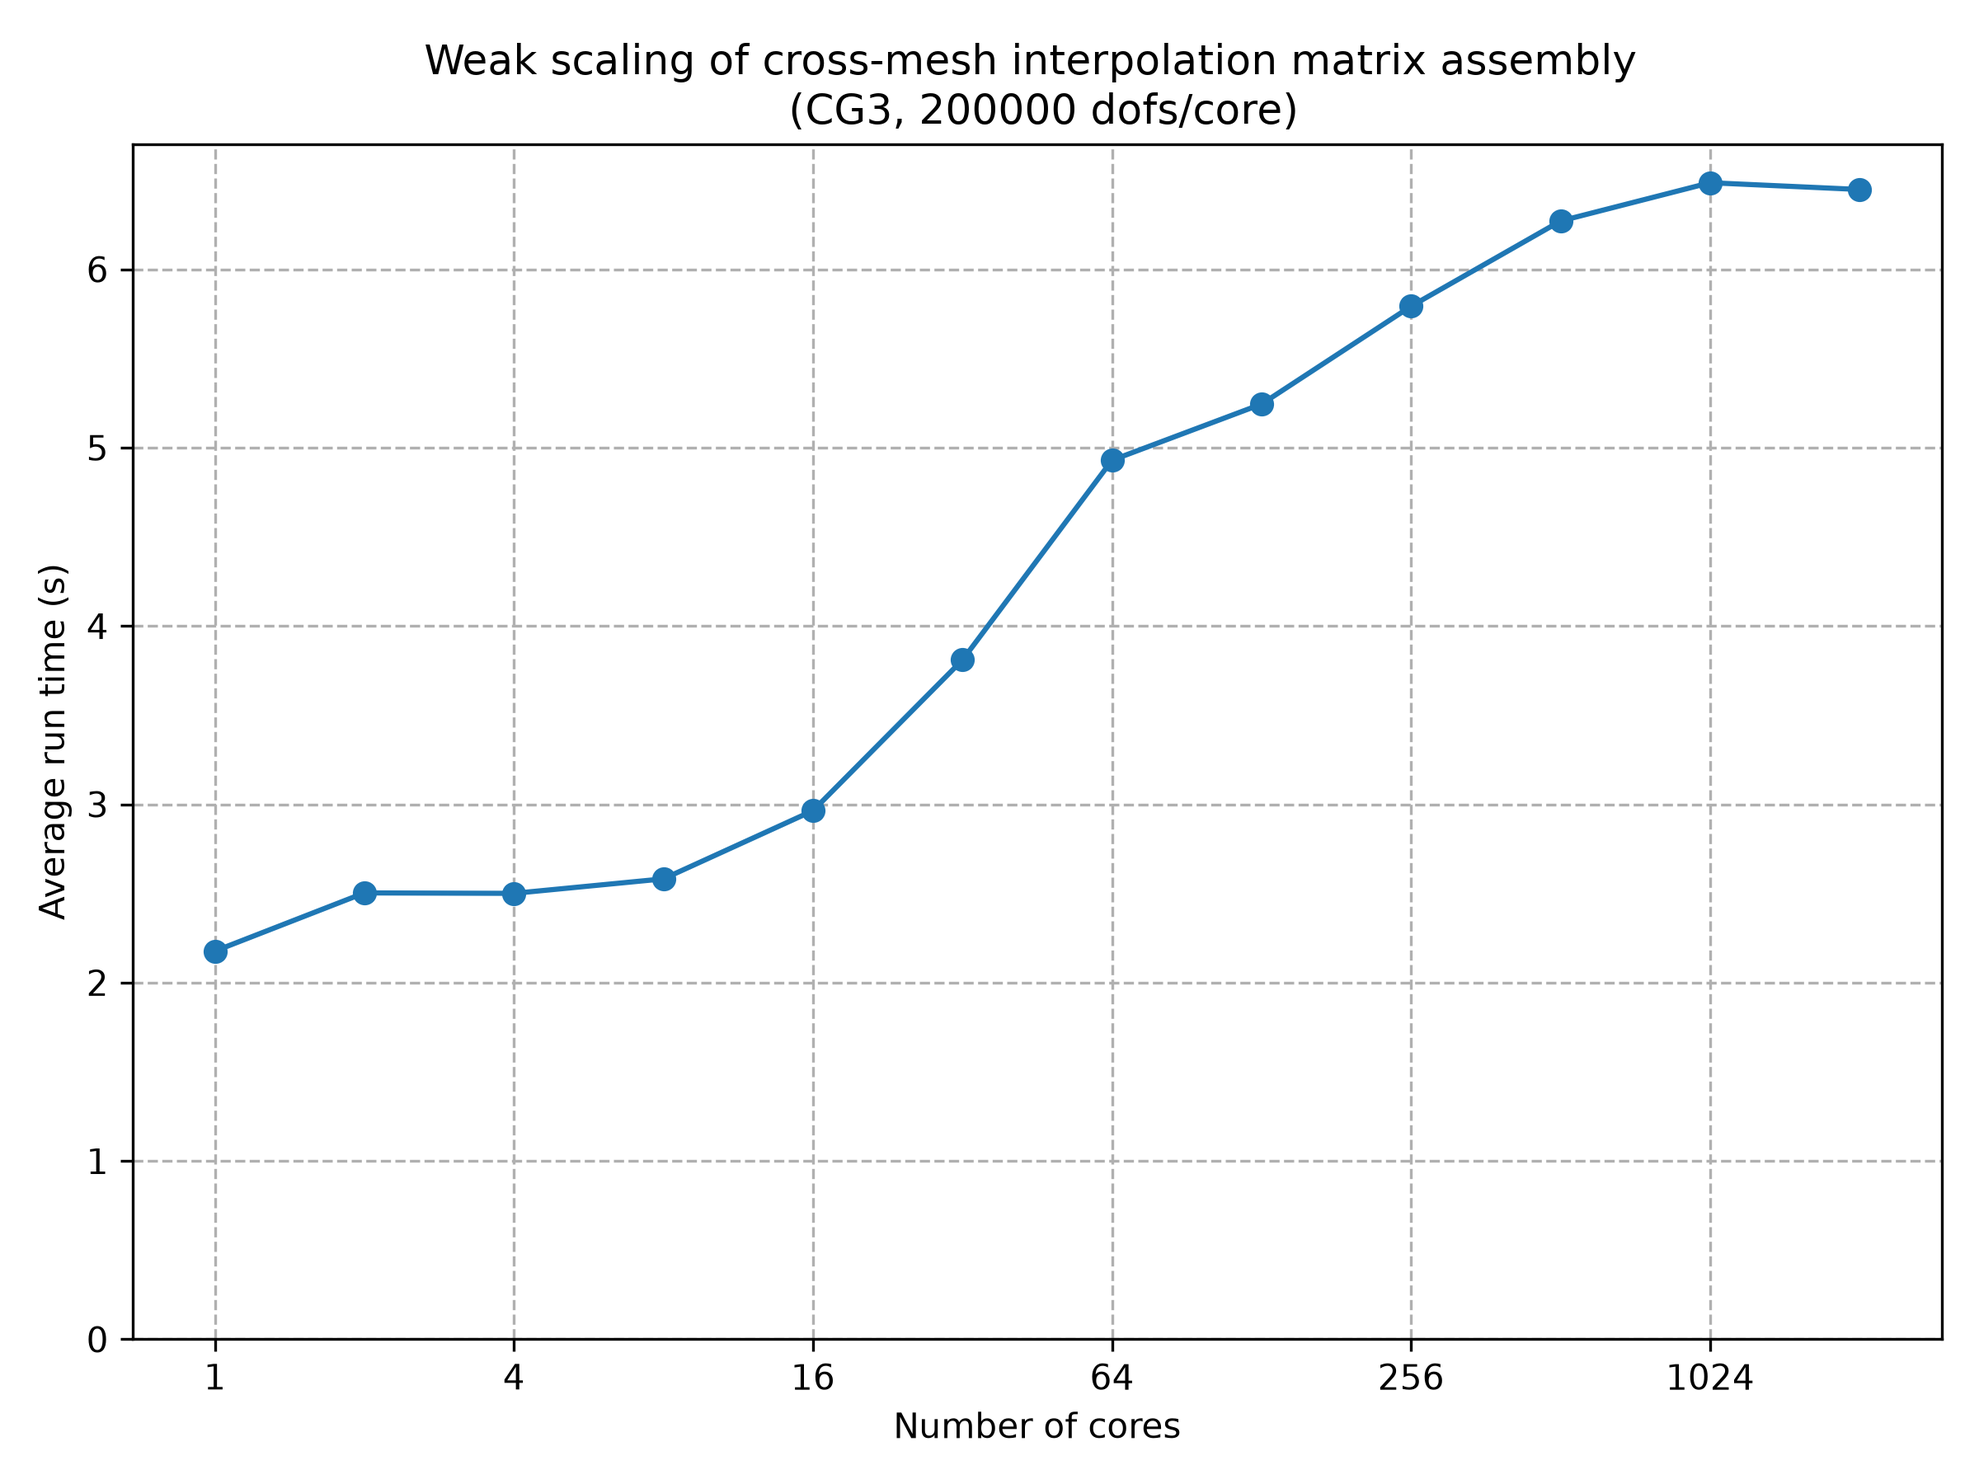
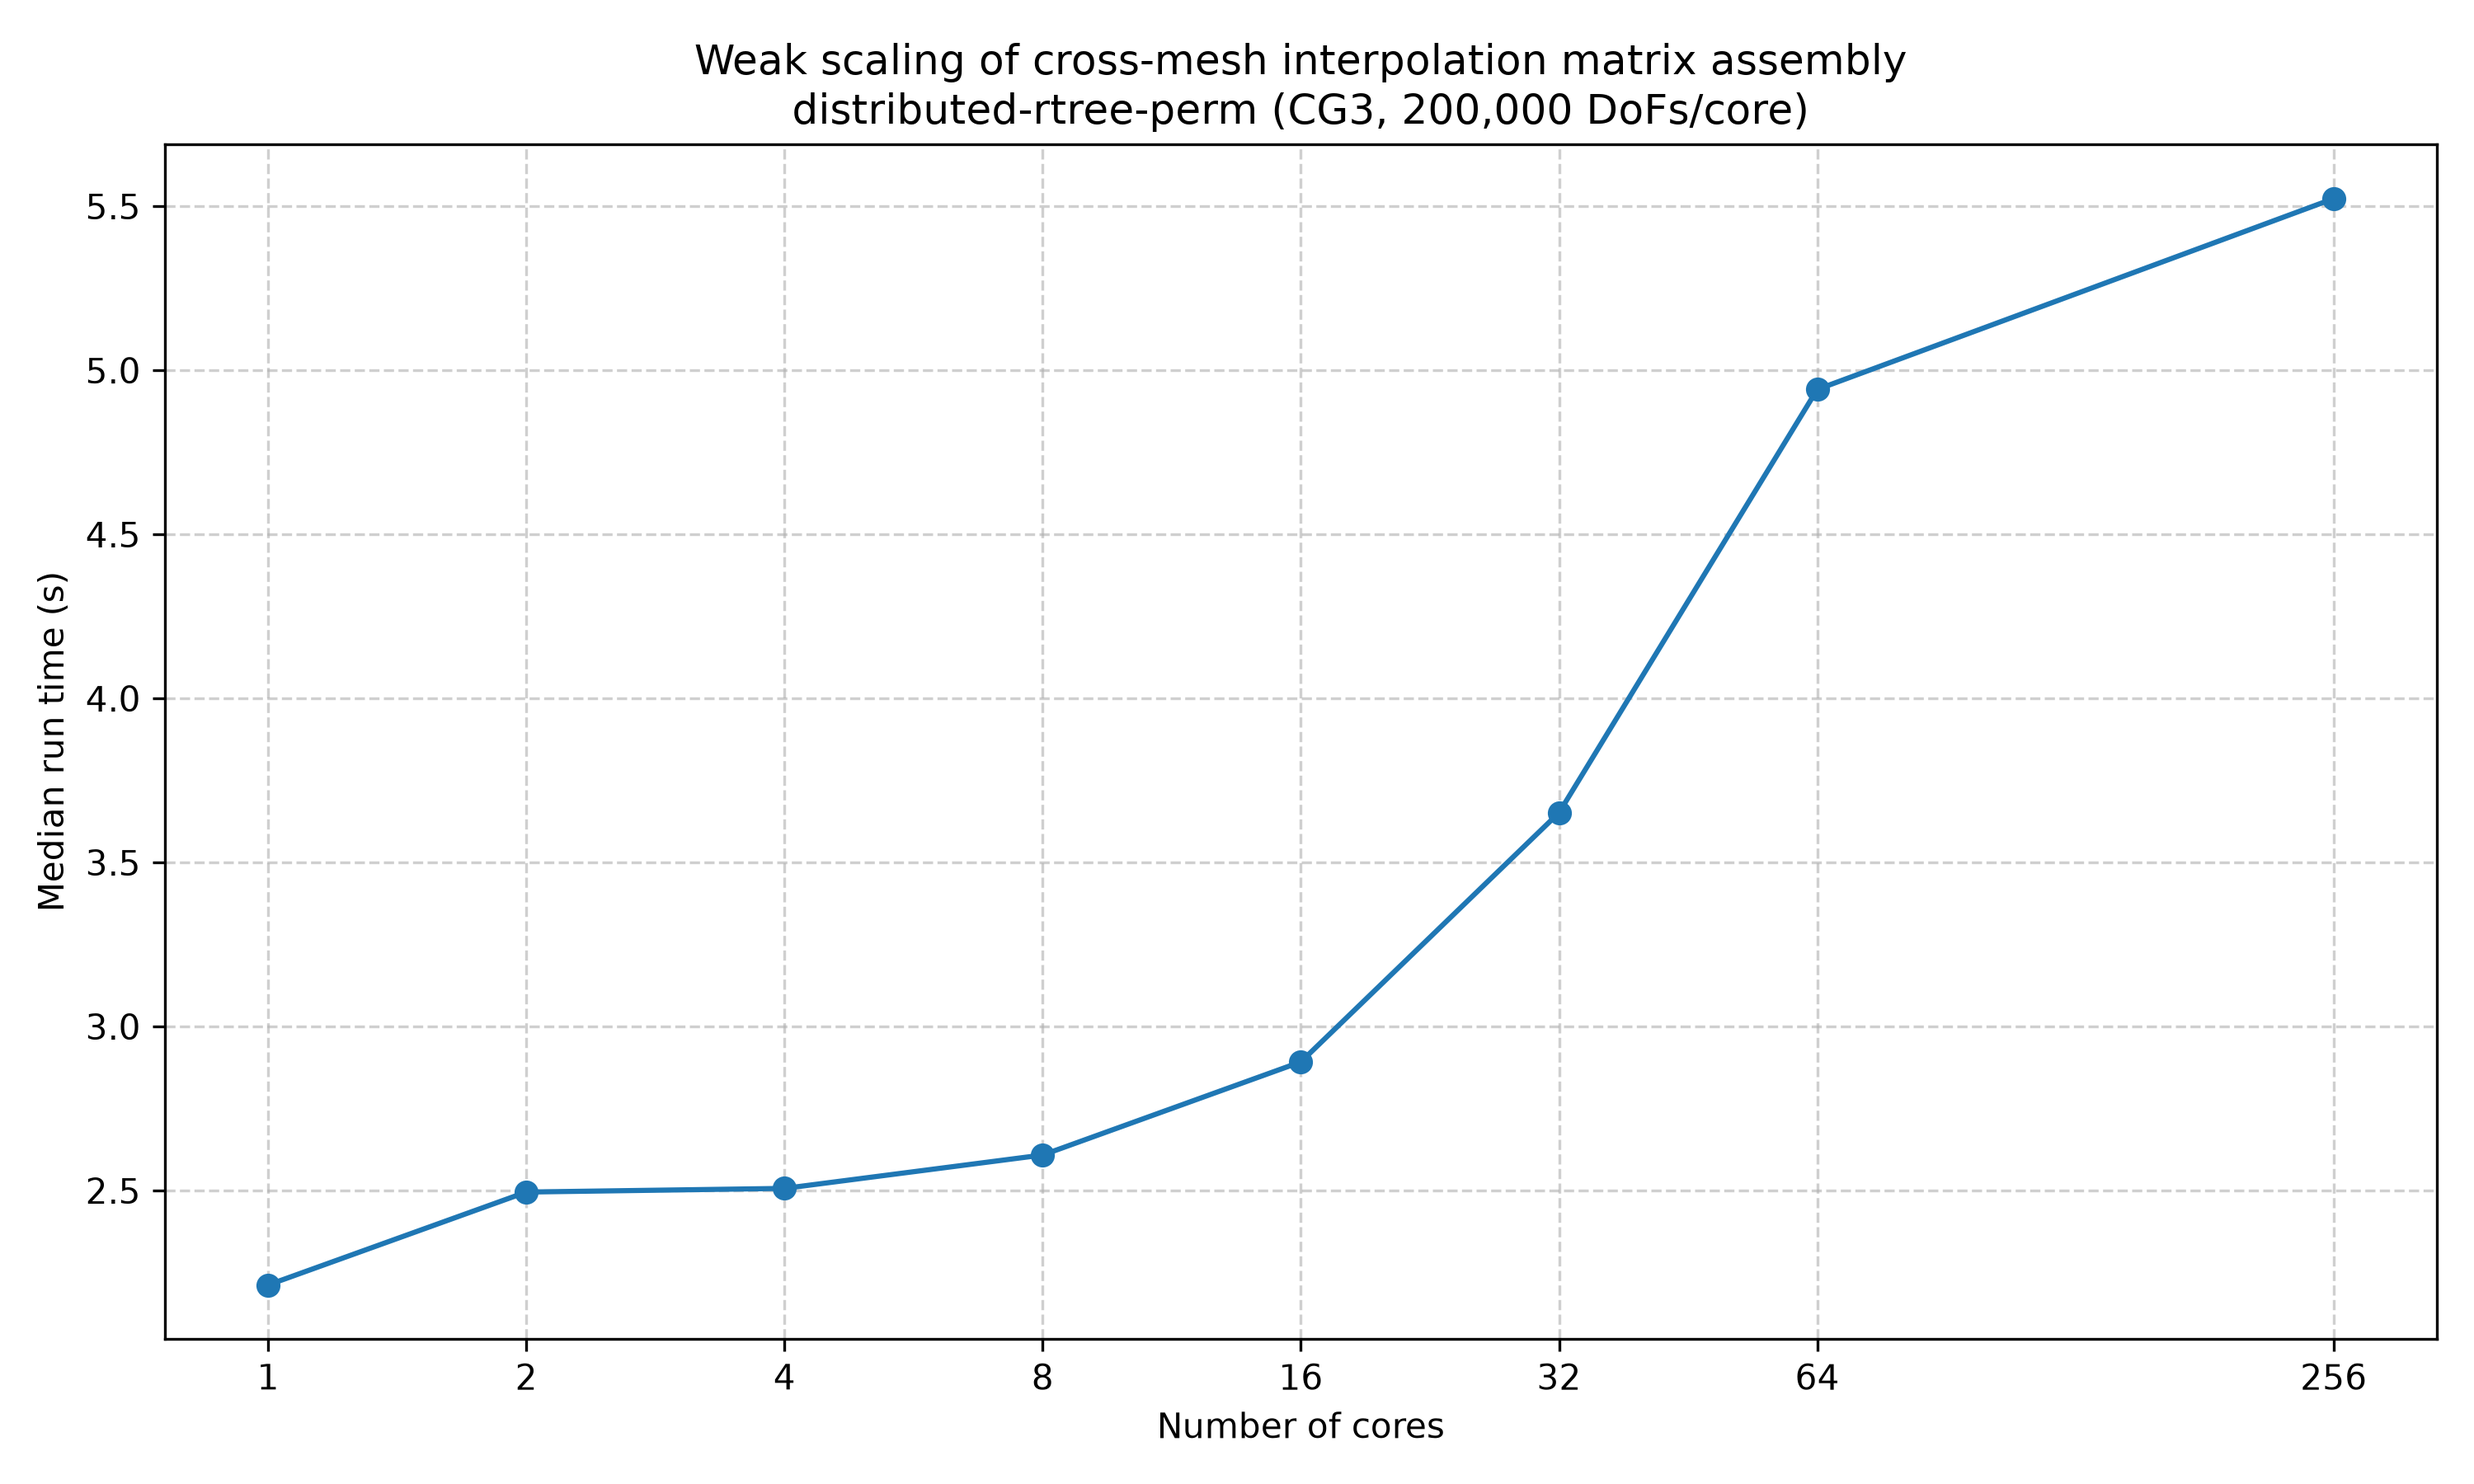
new plotting

diff --git a/cross-mesh3d/plotting/plot.py b/cross-mesh3d/plotting/plot.py
@@ -1,226 +1,94 @@
+"""Plot every cross-mesh scaling CSV in results/<branch>/.
+
+Run with ``python plot.py``; figures are written to plotting/img/.
+"""
+
 import csv
+from collections import defaultdict
 from pathlib import Path
 
 import matplotlib.pyplot as plt
-from matplotlib.ticker import ScalarFormatter
 import numpy as np
 
 
-PLOT_DIR = Path(__file__).parent
-RESULTS_DIR = PLOT_DIR.parent / "results"
+HERE = Path(__file__).resolve().parent
+RESULTS = HERE.parent / "results"
+OUTPUT = HERE / "img"
+CORES_PER_NODE = 64
 
 
-def _numbered_values(row: dict[str, str], prefix: str) -> np.ndarray:
-    values = sorted(
-        (
-            int(key.removeprefix(prefix)),
-            float(value),
-        )
-        for key, value in row.items()
-        if key.startswith(prefix)
-        and key.removeprefix(prefix).isdigit()
-        and value not in {None, ""}
-    )
-    if not values:
-        raise ValueError(f"No {prefix}N timing columns found in CSV row")
-    return np.asarray([value for _, value in values], dtype=float)
+def plot_csv(path):
+    timings = defaultdict(list)
+    with path.open(newline="") as csv_file:
+        for row in csv.DictReader(csv_file):
+            runs = np.array([
+                float(row[f"run{i}"]) for i in range(10) if row.get(f"run{i}")
+            ])
+            runs = runs[np.isfinite(runs) & (runs > 0)]
+            if not len(runs):
+                continue
+            q1, q3 = np.percentile(runs, [25, 75])
+            spread = q3 - q1
+            timings[int(row["nprocs"])].extend(
+                runs[(runs >= q1 - 1.5 * spread) & (runs <= q3 + 1.5 * spread)]
+            )
 
+    if not timings:
+        return
+    cores = np.array(sorted(timings))
+    median = np.array([np.median(timings[n]) for n in cores])
+    weak = "weakscaling" in path.stem
+    degree = path.stem.split("_CG")[-1].split("_")[0]
+    size = int(path.stem.rsplit("_", 1)[-1])
+    problem = f"CG{degree}, {size:,} {'DoFs/core' if weak else 'total DoFs'}"
+    branch = path.parent.name
+    OUTPUT.mkdir(exist_ok=True)
 
-def _get_data(csv_path: Path, prefix: str):
-    with csv_path.open() as csv_file:
-        rows = [
-            {
-                "nprocs": int(row["nprocs"]),
-                "dofs_per_core": float(row["dofs_per_core"]),
-                "times": _numbered_values(row, prefix),
-            }
-            for row in csv.DictReader(csv_file)
-        ]
-    return sorted(rows, key=lambda row: row["nprocs"])
-
-
-def get_data(csv_path: Path):
-    return _get_data(csv_path, "run")
-
-
-def get_data_apply(csv_path: Path):
-    return _get_data(csv_path, "apply")
-
-
-def _summary(data):
-    nprocs = np.asarray([row["nprocs"] for row in data], dtype=int)
-    medians = np.asarray([np.median(row["times"]) for row in data])
-    q1 = np.asarray([np.percentile(row["times"], 25) for row in data])
-    q3 = np.asarray([np.percentile(row["times"], 75) for row in data])
-    return nprocs, medians, q1, q3
-
-
-def _finish(fig, output_path: Path):
-    output_path.parent.mkdir(parents=True, exist_ok=True)
+    fig, ax = plt.subplots(figsize=(10, 6))
+    ax.plot(cores, median, marker="o")
+    ax.set_xscale("log", base=2)
+    ax.set_xticks(cores, [str(n) for n in cores])
+    ax.set_xlabel("Number of cores")
+    ax.set_ylabel("Median run time (s)")
+    ax.set_title(f"{'Weak' if weak else 'Strong'} scaling of cross-mesh interpolation matrix assembly\n"
+                 f"{branch} ({problem})")
+    ax.grid(True, linestyle="--", alpha=0.6)
     fig.tight_layout()
-    fig.savefig(output_path, dpi=300)
+    fig.savefig(OUTPUT / f"{branch}_{path.stem}.png", dpi=300)
+    plt.close(fig)
+
+    if weak:
+        fig, axes = plt.subplots(1, 2, figsize=(14, 6), sharey=True)
+        panels = ((cores <= CORES_PER_NODE, "Intranode efficiency"),
+                  (cores >= CORES_PER_NODE, "Internode efficiency"))
+    else:
+        fig, ax = plt.subplots(figsize=(10, 6))
+        axes = [ax]
+        panels = ((np.ones(len(cores), dtype=bool), "Strong scaling efficiency"),)
+
+    for ax, (mask, label) in zip(axes, panels):
+        selected_cores = cores[mask]
+        ax.set_title(label)
+        if len(selected_cores):
+            baseline = median[mask][0]
+            factor = 1 if weak else selected_cores[0] / selected_cores
+            efficiency = baseline / median[mask] * factor
+            ax.plot(selected_cores, efficiency, marker="o")
+            ax.set_xscale("log", base=2)
+            ax.set_xticks(selected_cores, [str(n) for n in selected_cores])
+        else:
+            ax.text(0.5, 0.5, "No internode results", ha="center", va="center",
+                    transform=ax.transAxes)
+        ax.set_xlabel("Number of cores")
+        ax.grid(True, linestyle="--", alpha=0.6)
+    axes[0].set_ylabel("Efficiency")
+    fig.suptitle(f"{'Weak' if weak else 'Strong'} scaling efficiency of cross-mesh interpolation assembly\n"
+                 f"{branch} ({problem})")
+    fig.tight_layout()
+    fig.savefig(OUTPUT / f"{branch}_{path.stem}_efficiency.png", dpi=300)
     plt.close(fig)
 
 
-def _plot_timings(data, output_path: Path, title: str):
-    nprocs, medians, q1, q3 = _summary(data)
-    fig, ax = plt.subplots(figsize=(8, 6))
-    ax.plot(nprocs, medians, marker="o", label="Median")
-    ax.fill_between(nprocs, q1, q3, alpha=0.2, label="Interquartile range")
-    ax.set_xscale("log", base=2)
-    ax.xaxis.set_major_formatter(ScalarFormatter())
-    ax.set_ylim(0, None)
-    ax.set_xlabel("Number of MPI processes")
-    ax.set_ylabel("Wall time (s)")
-    ax.set_title(title)
-    ax.grid(True, which="both", ls="--")
-    ax.legend()
-    _finish(fig, output_path)
-
-
-def _plot_weak_efficiency(data, output_path: Path, title: str):
-    nprocs, medians, _, _ = _summary(data)
-    efficiency = medians[0] / medians
-    fig, ax = plt.subplots(figsize=(8, 6))
-    ax.plot(nprocs, efficiency, marker="o")
-    ax.set_xscale("log", base=2)
-    ax.xaxis.set_major_formatter(ScalarFormatter())
-    ax.set_ylim(0, 1.05)
-    ax.set_xlabel("Number of MPI processes")
-    ax.set_ylabel("Weak-scaling efficiency")
-    ax.set_title(title)
-    ax.grid(True, which="both", ls="--")
-    _finish(fig, output_path)
-
-
-def _plot_strong_scaling(data, output_path: Path, title: str, efficiency: bool):
-    nprocs, medians, _, _ = _summary(data)
-    relative_processes = nprocs / nprocs[0]
-    speedup = medians[0] / medians
-
-    fig, ax = plt.subplots(figsize=(8, 6))
-    if efficiency:
-        values = speedup / relative_processes
-        ax.plot(nprocs, values, marker="o")
-        ax.set_ylim(0, 1.05)
-        ax.set_ylabel("Strong-scaling efficiency")
-    else:
-        ax.plot(nprocs, speedup, marker="o", label="Measured")
-        ax.plot(nprocs, relative_processes, "--", color="black", alpha=0.7, label="Ideal")
-        ax.set_yscale("log", base=2)
-        ax.yaxis.set_major_formatter(ScalarFormatter())
-        ax.set_ylabel("Speedup")
-        ax.legend()
-
-    ax.set_xscale("log", base=2)
-    ax.xaxis.set_major_formatter(ScalarFormatter())
-    ax.set_xlabel("Number of MPI processes")
-    ax.set_title(title)
-    ax.grid(True, which="both", ls="--")
-    _finish(fig, output_path)
-
-
-def overlapping_weakscaling_3d(dofs_per_core: int, degree: int):
-    stem = f"overlapping_weakscaling_3d_CG{degree}_{dofs_per_core}"
-    data = get_data(RESULTS_DIR / f"{stem}.csv")
-    _plot_timings(
-        data,
-        PLOT_DIR / "img" / f"{stem}.png",
-        f"Weak scaling of cold-index cross-mesh matrix construction\n(CG{degree}, {dofs_per_core:,} DoFs/process)",
-    )
-
-
-def overlapping_weakscaling_3d_efficiency(dofs_per_core: int, degree: int):
-    stem = f"overlapping_weakscaling_3d_CG{degree}_{dofs_per_core}"
-    data = get_data(RESULTS_DIR / f"{stem}.csv")
-    _plot_weak_efficiency(
-        data,
-        PLOT_DIR / "img" / f"{stem}_efficiency.png",
-        f"Weak-scaling efficiency of cold-index cross-mesh matrix construction\n(CG{degree}, {dofs_per_core:,} DoFs/process)",
-    )
-
-
-def overlapping_strongscaling_3d_speedup(total_dofs: int, degree: int):
-    stem = f"overlapping_strongscaling_3d_CG{degree}_{total_dofs}"
-    data = get_data(RESULTS_DIR / f"{stem}.csv")
-    _plot_strong_scaling(
-        data,
-        PLOT_DIR / "img" / f"{stem}_speedup.png",
-        f"Strong scaling of cold-index cross-mesh matrix construction\n(CG{degree}, requested DoFs={total_dofs:,})",
-        efficiency=False,
-    )
-
-
-def overlapping_strongscaling_3d_efficiency(total_dofs: int, degree: int):
-    stem = f"overlapping_strongscaling_3d_CG{degree}_{total_dofs}"
-    data = get_data(RESULTS_DIR / f"{stem}.csv")
-    _plot_strong_scaling(
-        data,
-        PLOT_DIR / "img" / f"{stem}_efficiency.png",
-        f"Strong-scaling efficiency of cold-index cross-mesh matrix construction\n(CG{degree}, requested DoFs={total_dofs:,})",
-        efficiency=True,
-    )
-
-
-def _plot_apply(degree: int, dofs: int, kind: str, efficiency: bool):
-    stem = f"overlapping_apply_{kind}_3d_CG{degree}_{dofs}"
-    data = get_data_apply(RESULTS_DIR / f"{stem}.csv")
-    label = "matrix-free operator" if kind == "matfree" else "matrix"
-    output_suffix = "_apply_efficiency.png" if efficiency else "_apply.png"
-    output_stem = f"overlapping_apply_{kind}_3d_CG{degree}_{dofs}"
-    title = f"Application of cross-mesh interpolation {label}\n(CG{degree}, {dofs:,} DoFs/process)"
-    if efficiency:
-        _plot_weak_efficiency(data, PLOT_DIR / "img" / f"{output_stem}{output_suffix}", title)
-    else:
-        _plot_timings(data, PLOT_DIR / "img" / f"{output_stem}{output_suffix}", title)
-
-
-def overlapping_apply_matfree_3d_weakscaling(degree: int, dofs: int):
-    _plot_apply(degree, dofs, "matfree", efficiency=False)
-
-
-def overlapping_apply_matfree_3d_weakscaling_efficiency(degree: int, dofs: int):
-    _plot_apply(degree, dofs, "matfree", efficiency=True)
-
-
-def overlapping_apply_matrix_3d_weakscaling(degree: int, dofs: int):
-    _plot_apply(degree, dofs, "matrix", efficiency=False)
-
-
-def overlapping_apply_matrix_3d_weakscaling_efficiency(degree: int, dofs: int):
-    _plot_apply(degree, dofs, "matrix", efficiency=True)
-
-
-def overlapping_weakscaling_oneform_3d(dofs_per_core: int, degree: int):
-    stem = f"overlapping_weakscaling_one_form_3d_CG{degree}_{dofs_per_core}"
-    data = get_data(RESULTS_DIR / f"{stem}.csv")
-    output_stem = f"overlapping_weakscaling_oneform_3d_CG{degree}_{dofs_per_core}"
-    _plot_timings(
-        data,
-        PLOT_DIR / "img" / f"{output_stem}.png",
-        f"Weak scaling of cold-index cross-mesh interpolation\n(CG{degree}, {dofs_per_core:,} DoFs/process)",
-    )
-
-
-def overlapping_weakscaling_oneform_3d_efficiency(dofs_per_core: int, degree: int):
-    stem = f"overlapping_weakscaling_one_form_3d_CG{degree}_{dofs_per_core}"
-    data = get_data(RESULTS_DIR / f"{stem}.csv")
-    output_stem = f"overlapping_weakscaling_oneform_3d_CG{degree}_{dofs_per_core}"
-    _plot_weak_efficiency(
-        data,
-        PLOT_DIR / "img" / f"{output_stem}_efficiency.png",
-        f"Weak-scaling efficiency of cold-index cross-mesh interpolation\n(CG{degree}, {dofs_per_core:,} DoFs/process)",
-    )
-
-
 if __name__ == "__main__":
-    overlapping_apply_matfree_3d_weakscaling(degree=3, dofs=200_000)
-    overlapping_apply_matfree_3d_weakscaling_efficiency(degree=3, dofs=200_000)
-    overlapping_apply_matrix_3d_weakscaling(degree=3, dofs=200_000)
-    overlapping_apply_matrix_3d_weakscaling_efficiency(degree=3, dofs=200_000)
-    overlapping_weakscaling_3d(dofs_per_core=200_000, degree=3)
-    overlapping_weakscaling_3d_efficiency(dofs_per_core=200_000, degree=3)
-    overlapping_strongscaling_3d_speedup(total_dofs=10_000_000, degree=3)
-    overlapping_strongscaling_3d_efficiency(total_dofs=10_000_000, degree=3)
-    overlapping_weakscaling_oneform_3d(dofs_per_core=200_000, degree=3)
-    overlapping_weakscaling_oneform_3d_efficiency(dofs_per_core=200_000, degree=3)
+    for csv_path in sorted(RESULTS.glob("*/*.csv")):
+        plot_csv(csv_path)
